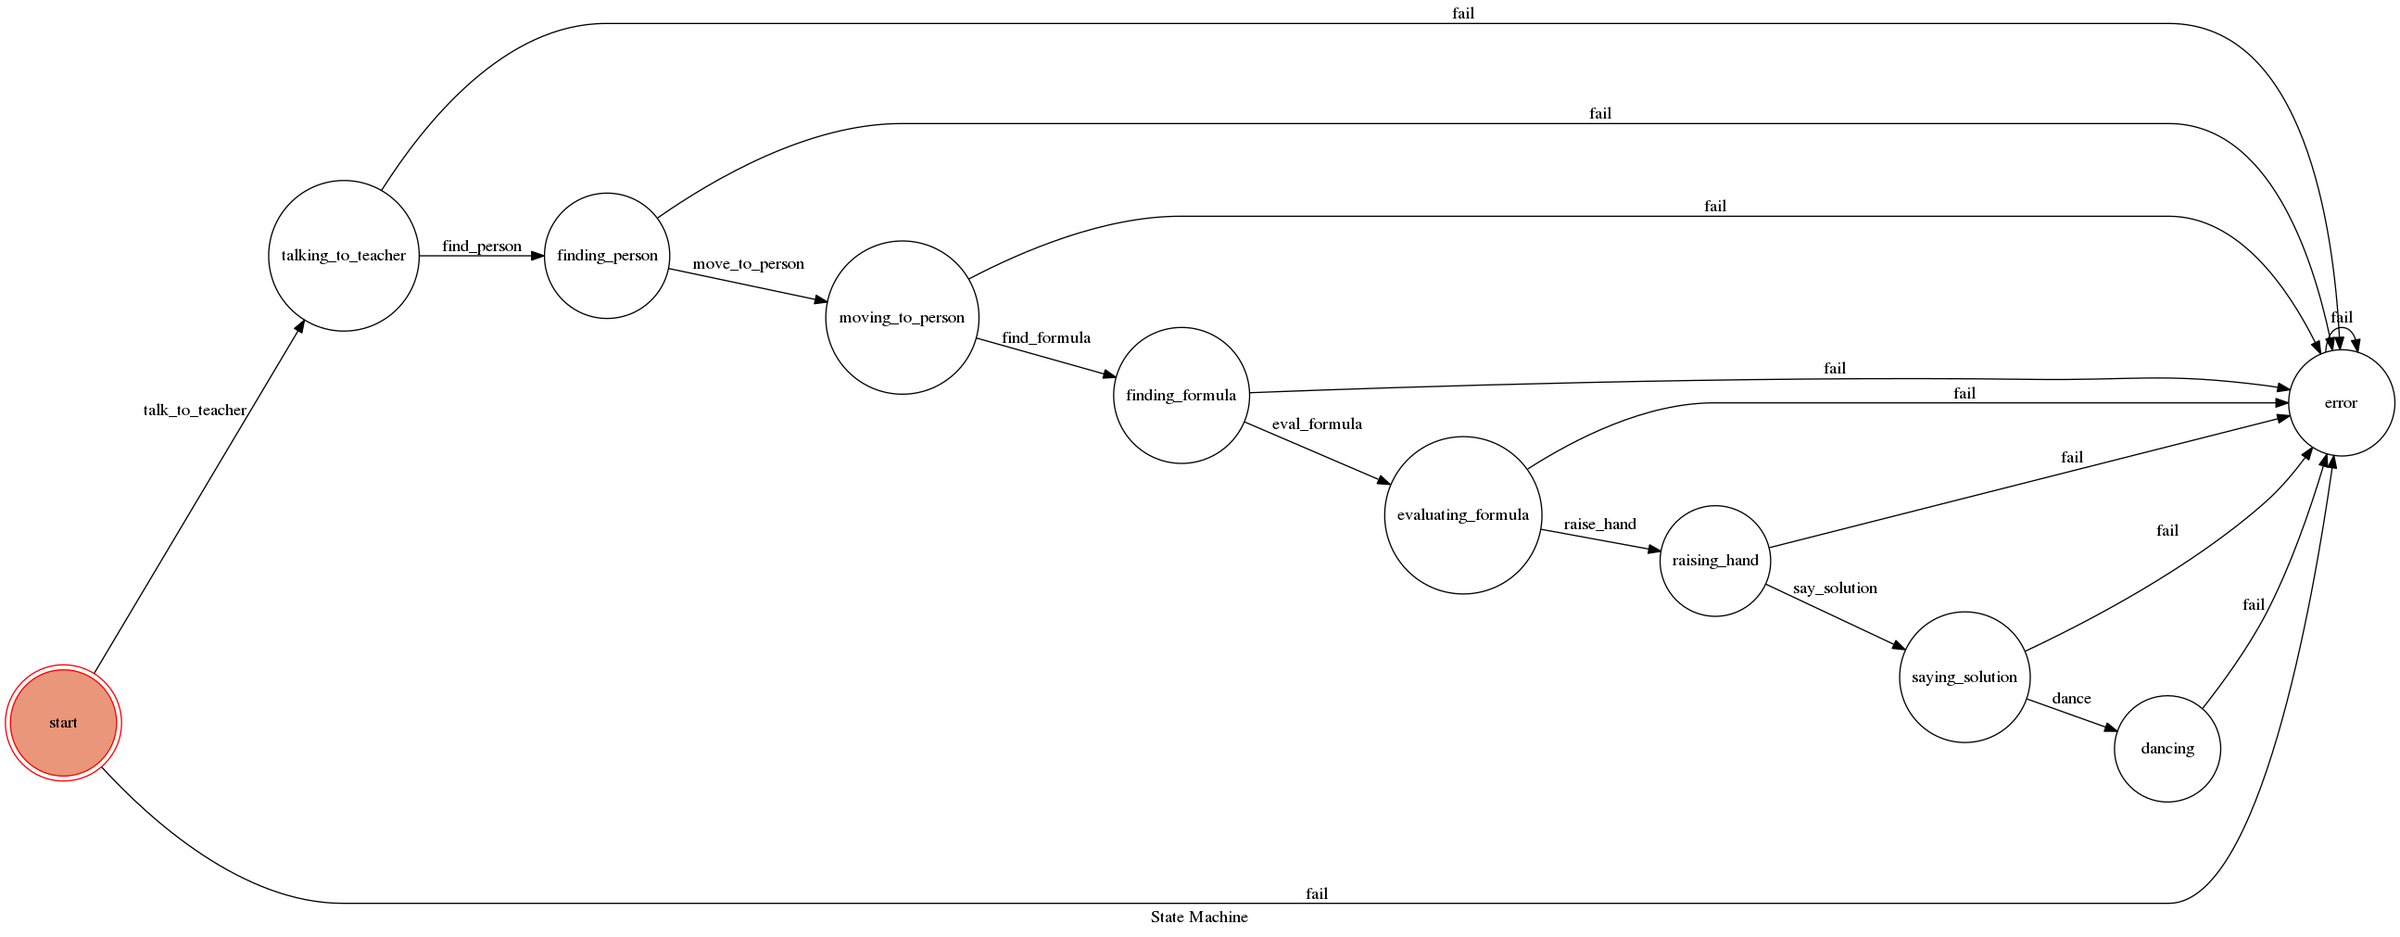
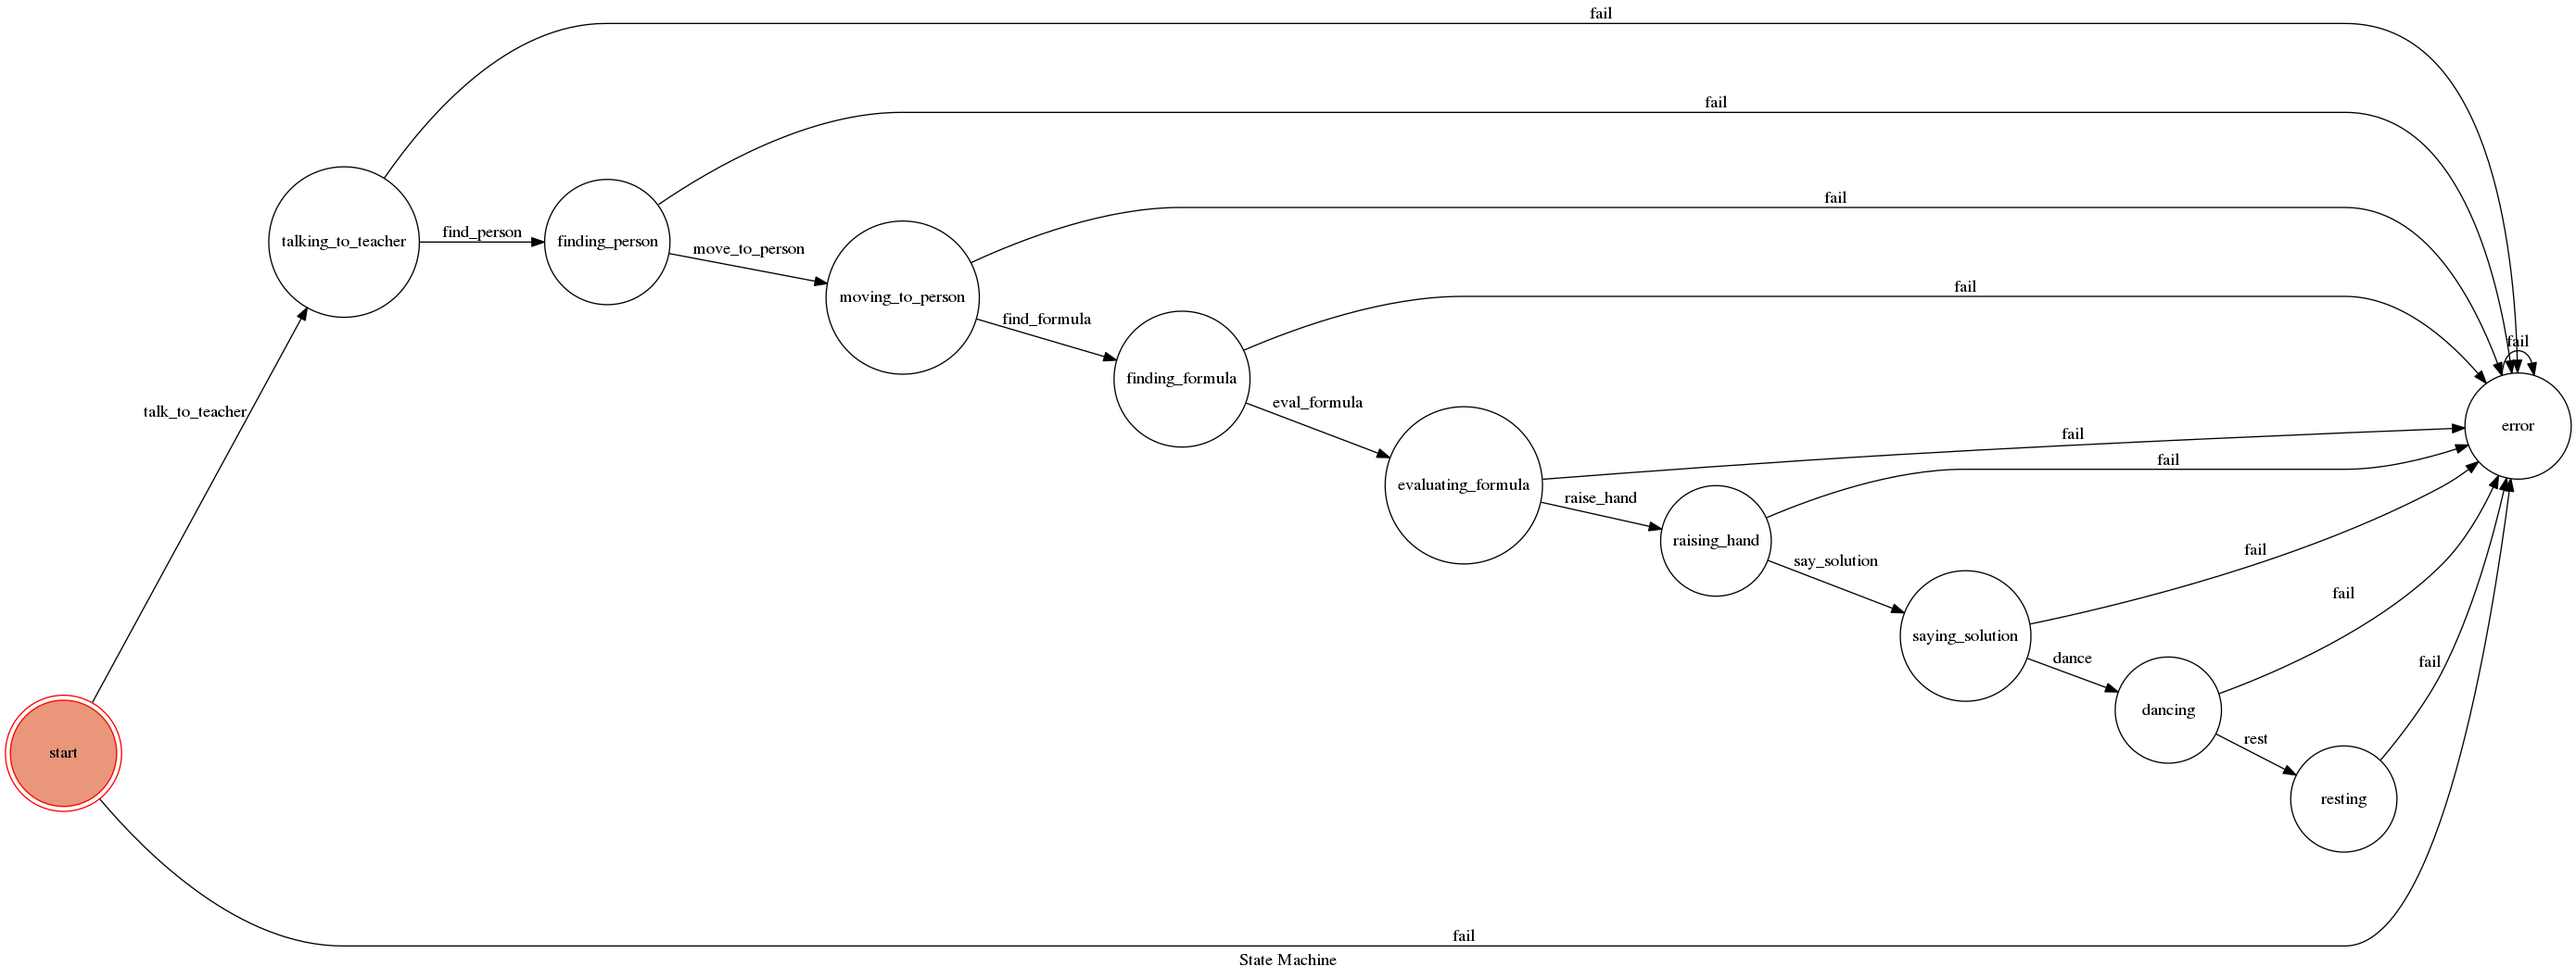
Add resting state

diff --git a/schoolboy/core.py b/schoolboy/core.py
@@ -14,6 +14,7 @@ from schoolboy.behaviors.evaluating_formula import evaluating_formula
 from schoolboy.behaviors.raising_hand import raising_hand
 from schoolboy.behaviors.saying_solution import saying_solution
 from schoolboy.behaviors.dancing import dancing
+from schoolboy.behaviors.resting import resting
 
 # configure logging
 logging.basicConfig(level=logging.INFO)
@@ -30,6 +31,7 @@ class SchoolBoy(object):
         "raising_hand",
         "saying_solution",
         "dancing",
+        "resting",
         "error"
     ]
 
@@ -92,6 +94,12 @@ class SchoolBoy(object):
                 source="saying_solution",
                 dest="dancing",
                 after=lambda *args, **kwargs: dancing(self, *args, **kwargs)
+        )
+        self.state_machine.add_transition(
+                trigger="rest",
+                source="dancing",
+                dest="resting",
+                after=lambda *args, **kwargs: resting(self, *args, **kwargs)
         )
         self.state_machine.add_transition(
                 trigger="fail",

diff --git a/schoolboy/behaviors/dancing.py b/schoolboy/behaviors/dancing.py
@@ -1,3 +1,5 @@
+import logging
+
 from naoqi import ALProxy
 
 def dancing(schoolboy):
@@ -130,7 +132,9 @@ def dancing(schoolboy):
         motion = ALProxy("ALMotion")
         for i in range[0, 5]:
             motion.angleInterpolationBezier(names, times, keys)
-    except:
-        print("I can't dance!")
-#    except BaseException, err:
-#        err
+    except Exception as exc:
+        fail_reason = "Unable to dance, because: '{}'".format(exc)
+        logging.error(fail_reason)
+        schoolboy.fail(reason=fail_reason)
+    else:
+        schoolboy.rest()

diff --git a/schoolboy/behaviors/resting.py b/schoolboy/behaviors/resting.py
@@ -1,0 +1,7 @@
+import logging
+
+
+def resting(schoolboy):
+    say = "I'm so tired, I'm going to rest"
+    logging.info(say)
+    schoolboy.robot.ALAnimatedSpeech(say)
